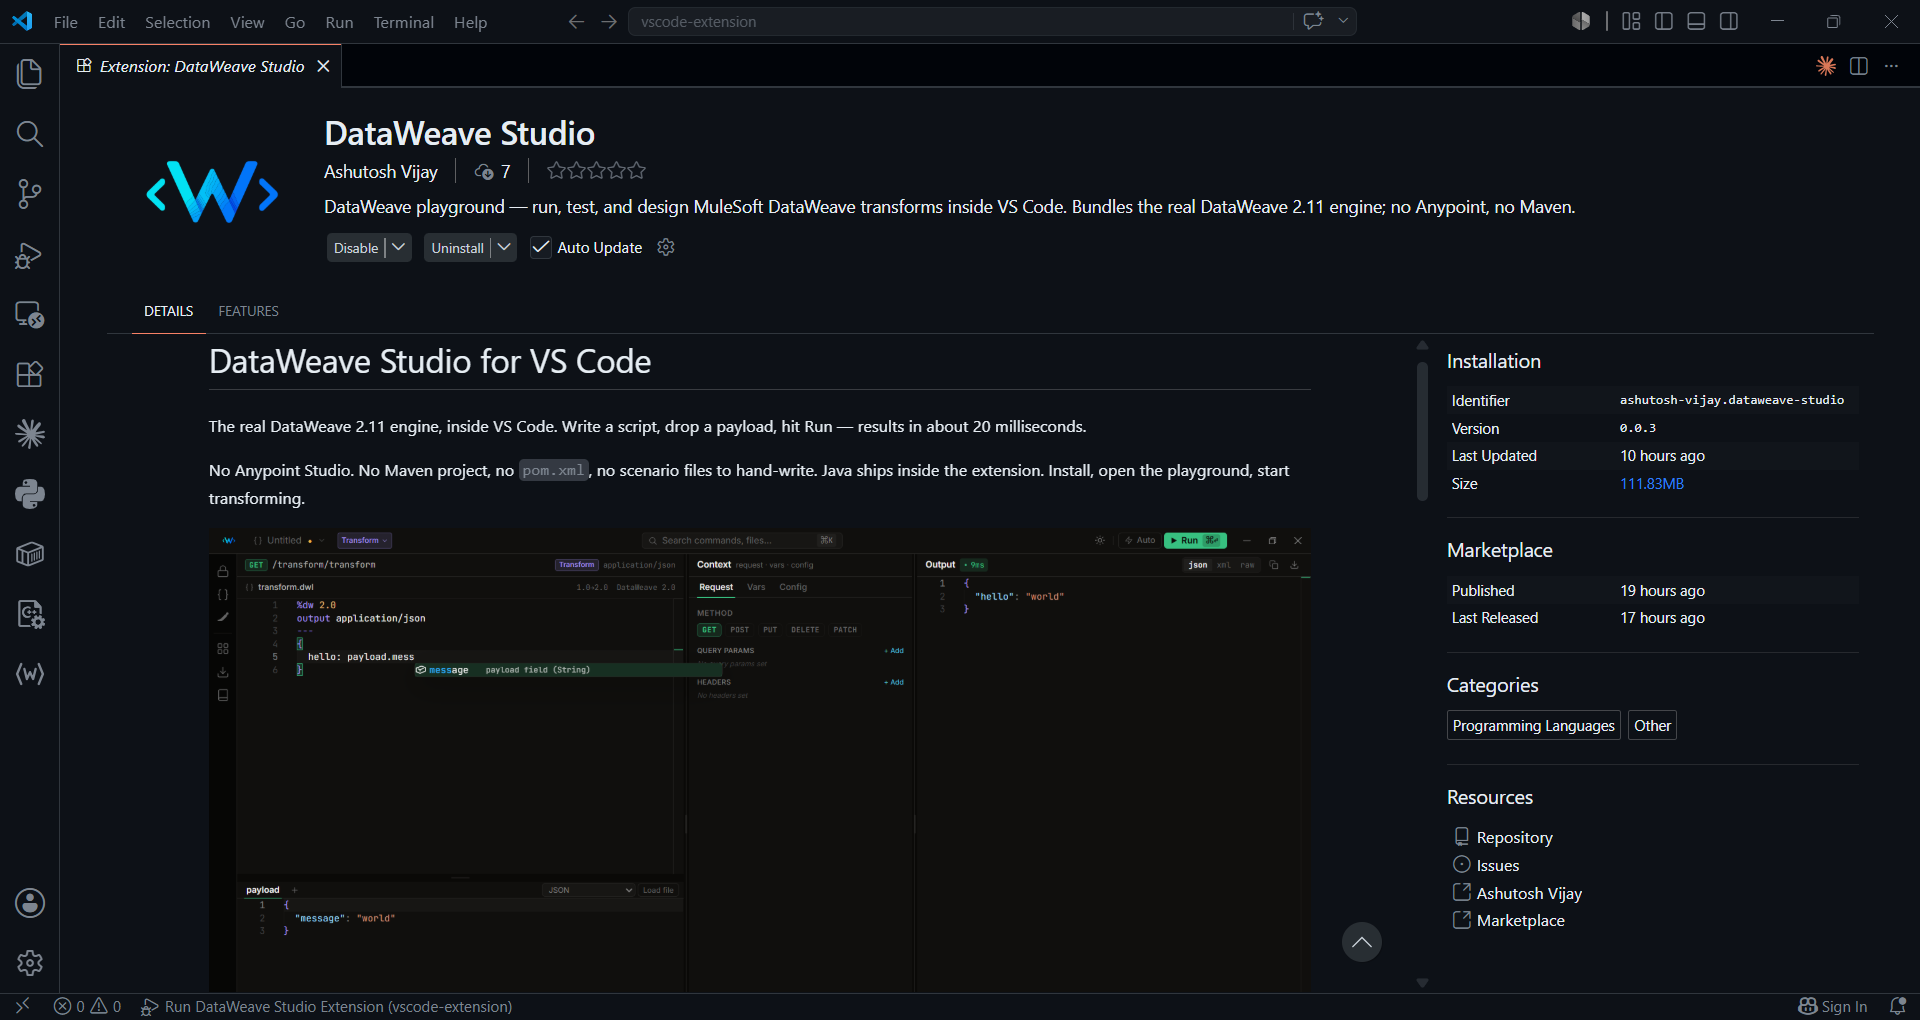
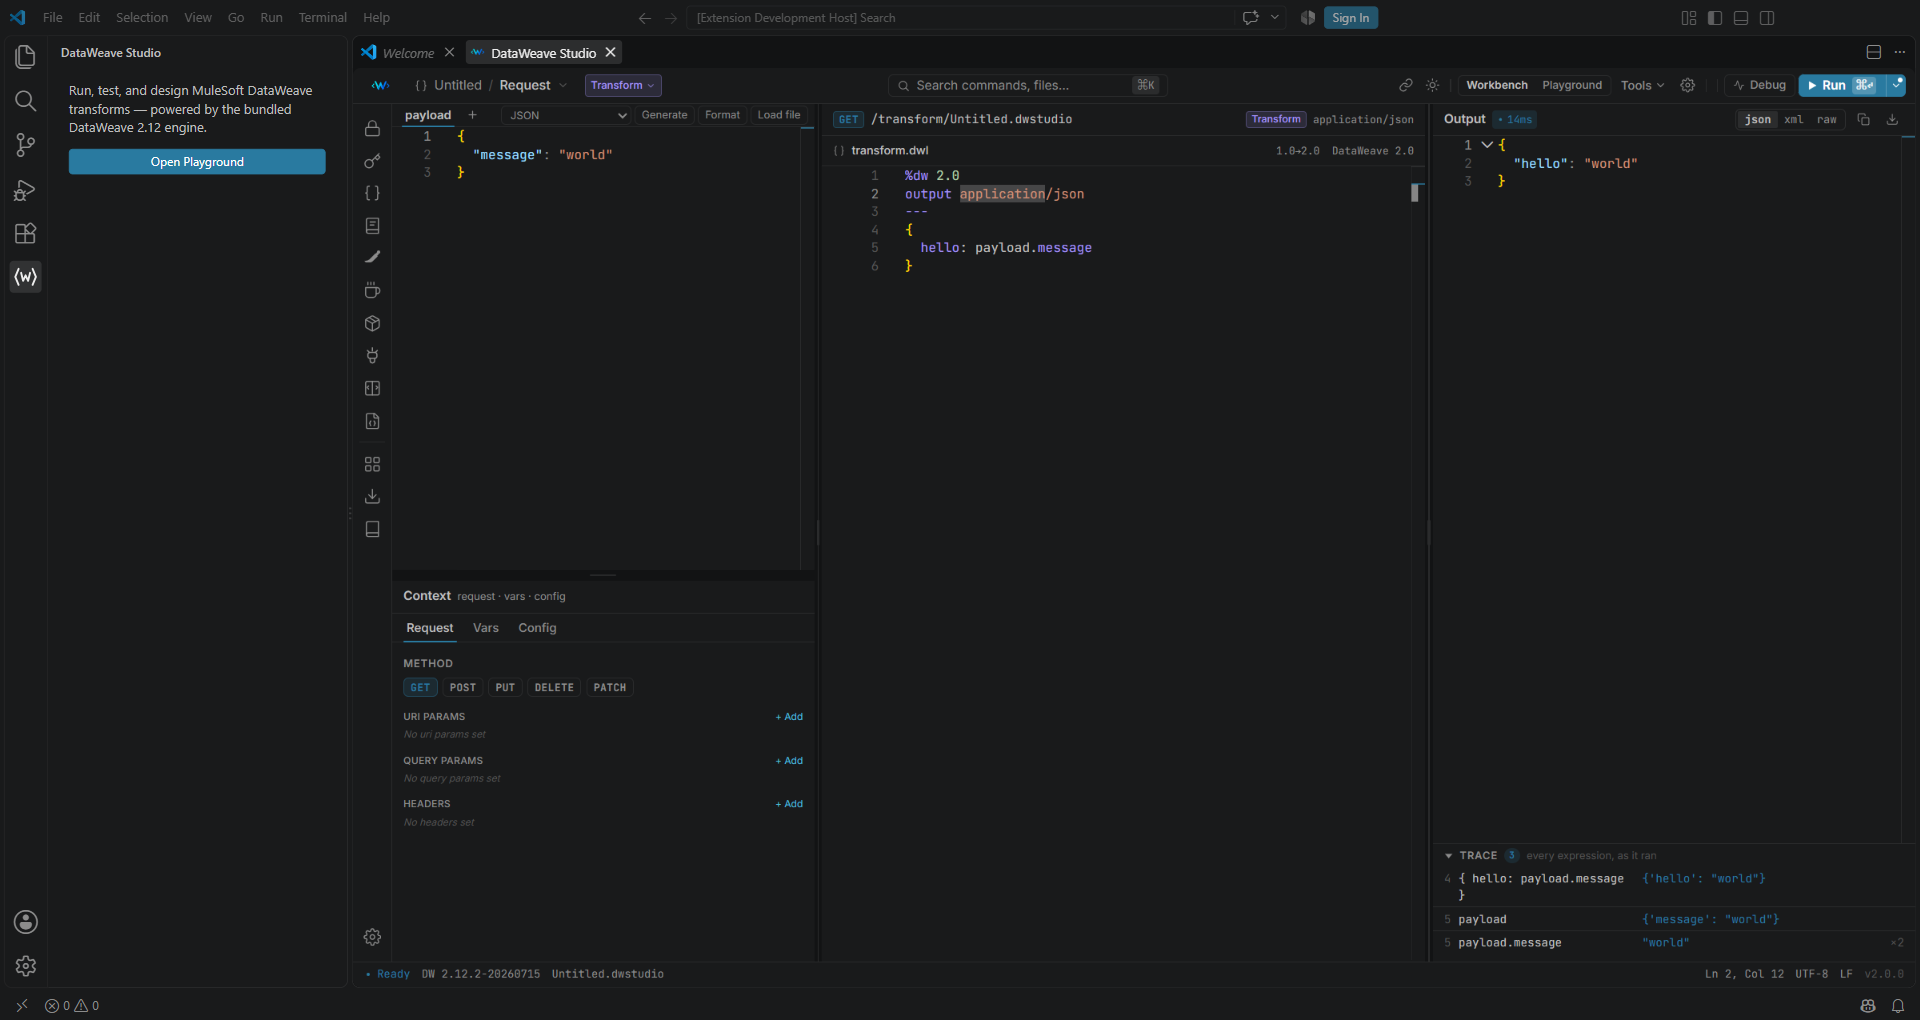
Three things only running the extension in real VS Code could find
Nobody had ever pressed F5 on this. It turns out the tauri-app MCP is just a
CDP driver, and VS Code is Electron, so `code --remote-debugging-port=9222
--extensionDevelopmentPath=…` hands it the same Playwright surface — refs cross
both iframes, workbench into webview into our React app. One pass found three
bugs that nothing else would have.

Monaco's JSON worker never loaded in the extension. A plain Vite `?worker`
emits a file and does `new Worker(url)`; the webview runs on `vscode-webview://`
while its assets come from `file+.vscode-resource.vscode-cdn.net`, so that
Worker is cross-origin and the browser refuses it — five SecurityErrors, taking
JSON validation, folding, outline and colour decorators down with them in the
payload and config editors. Nothing in the UI said so; it was console-only,
which is why it shipped. `?worker&inline` builds from a blob, always
same-origin. Not a CSP question: both hosts already allow `worker-src blob:`.

The sidebar and the Marketplace search blurb both advertised "DataWeave 2.11".
The bundled engine is 2.12.2. That blurb is what people read before installing.

And the one VS Code screenshot in the README was from June, showing a UI that
no longer exists. Replaced with a real capture from this session — actual VS
Code chrome, current three-pane layout, Trace panel, 14 ms run. A desktop
screenshot under a caption saying "inside VS Code" would have been a lie, which
[…]

diff --git a/src/main.tsx b/src/main.tsx
@@ -17,8 +17,18 @@ import { ThemeProvider } from "./ThemeContext";
 import { isTauri } from "./bridge";
 import "./index.css";
 
-import editorWorker from "monaco-editor/esm/vs/editor/editor.worker?worker";
-import jsonWorker from "monaco-editor/esm/vs/language/json/json.worker?worker";
+// `&inline` matters, and only in VS Code. A plain `?worker` emits a separate
+// file and constructs `new Worker(url)`; in the extension the webview is served
+// from `vscode-webview://` while its assets come from
+// `file+.vscode-resource.vscode-cdn.net`, so that Worker is cross-origin and the
+// browser refuses it outright — SecurityError, five times over, silently killing
+// JSON validation, folding, outline and colour decorators in the payload and
+// config editors. Nothing in the UI says so; it shows only in the webview
+// console. `&inline` builds the worker from a blob, which is always same-origin,
+// so it loads in both hosts. Not a CSP problem — both already allow
+// `worker-src blob:` — it is the same-origin rule on Worker itself.
+import editorWorker from "monaco-editor/esm/vs/editor/editor.worker?worker&inline";
+import jsonWorker from "monaco-editor/esm/vs/language/json/json.worker?worker&inline";
 
 self.MonacoEnvironment = {
   getWorker(_: unknown, label: string) {

diff --git a/README.md b/README.md
@@ -66,7 +66,7 @@ Built with Tauri v2 (Rust) + React + TypeScript + Monaco Editor. Ships with a bu
 *Settings — Dusk/Paper themes, 5 accent colors, Workbench and Playground layouts*
 
 ![DataWeave Studio in VS Code](docs/screenshots/vscode_extension.png)
-*The same app inside VS Code — bundled Java runtime, no Maven, no Anypoint Studio*
+*The same app inside VS Code — bundled Java runtime, no Maven, no Anypoint Studio. Same engine, same Trace panel, same ~20 ms runs.*
 
 ---
 

diff --git a/vscode-extension/CHANGELOG.md b/vscode-extension/CHANGELOG.md
@@ -2,7 +2,7 @@
 
 All notable changes to DataWeave Studio for VS Code.
 
-## 2.0.0 — 2026-09-05
+## 2.0.0 — 2026-09-13
 
 **Stop guessing what your script did.**
 
